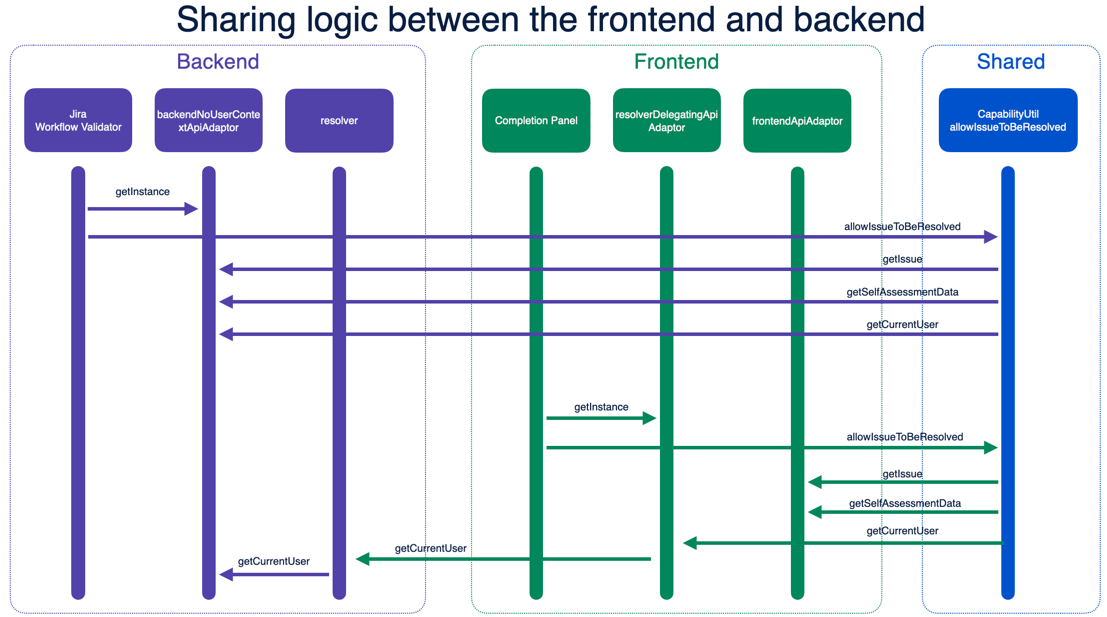
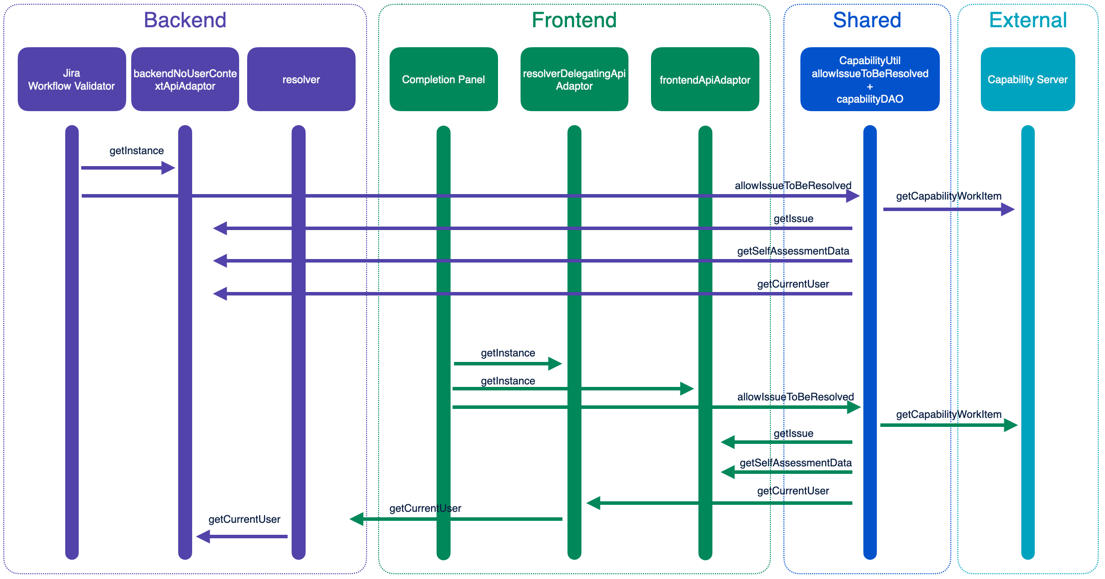
Architecture diagram updates

diff --git a/src/frontend/TestCaseStatusCustomFieldView.tsx b/src/frontend/TestCaseStatusCustomFieldView.tsx
@@ -3,7 +3,6 @@ import ForgeReconciler, { Text, Stack } from "@forge/react";
 import { view } from '@forge/bridge';
 import { CapabilityWorkItem } from '../types/CapabilityWorkItem';
 import { getCapabilityWorkItemByIssueKey } from '../shared/capabilityDAO';
-import frontendApiAdaptor from './frontendApiAdaptor';
 
 const CustomFieldView = () => {
 

diff --git a/README.md b/README.md
@@ -12,9 +12,15 @@ An external database, mocked by invocations to https://dfds-mock.glitch.me/getCa
 
 The app must prevent CAP transitions from "In Progress" to "Resolved" if the current user is not authorized or if there are linked test cases that have not passed.
 
-## Architecture
+## Architecture and Imoplementation Overview
+
+The following diagrams provide a high level explaination of the architecture and implementation.
+
 
 ![images/architecture.png](images/architecture.png)
+
+
+![images/custom-field-sequence.png](images/custom-field-sequence.png)
 
 
 ![images/sequence-sharing-logic.png](images/sequence-sharing-logic.png)
